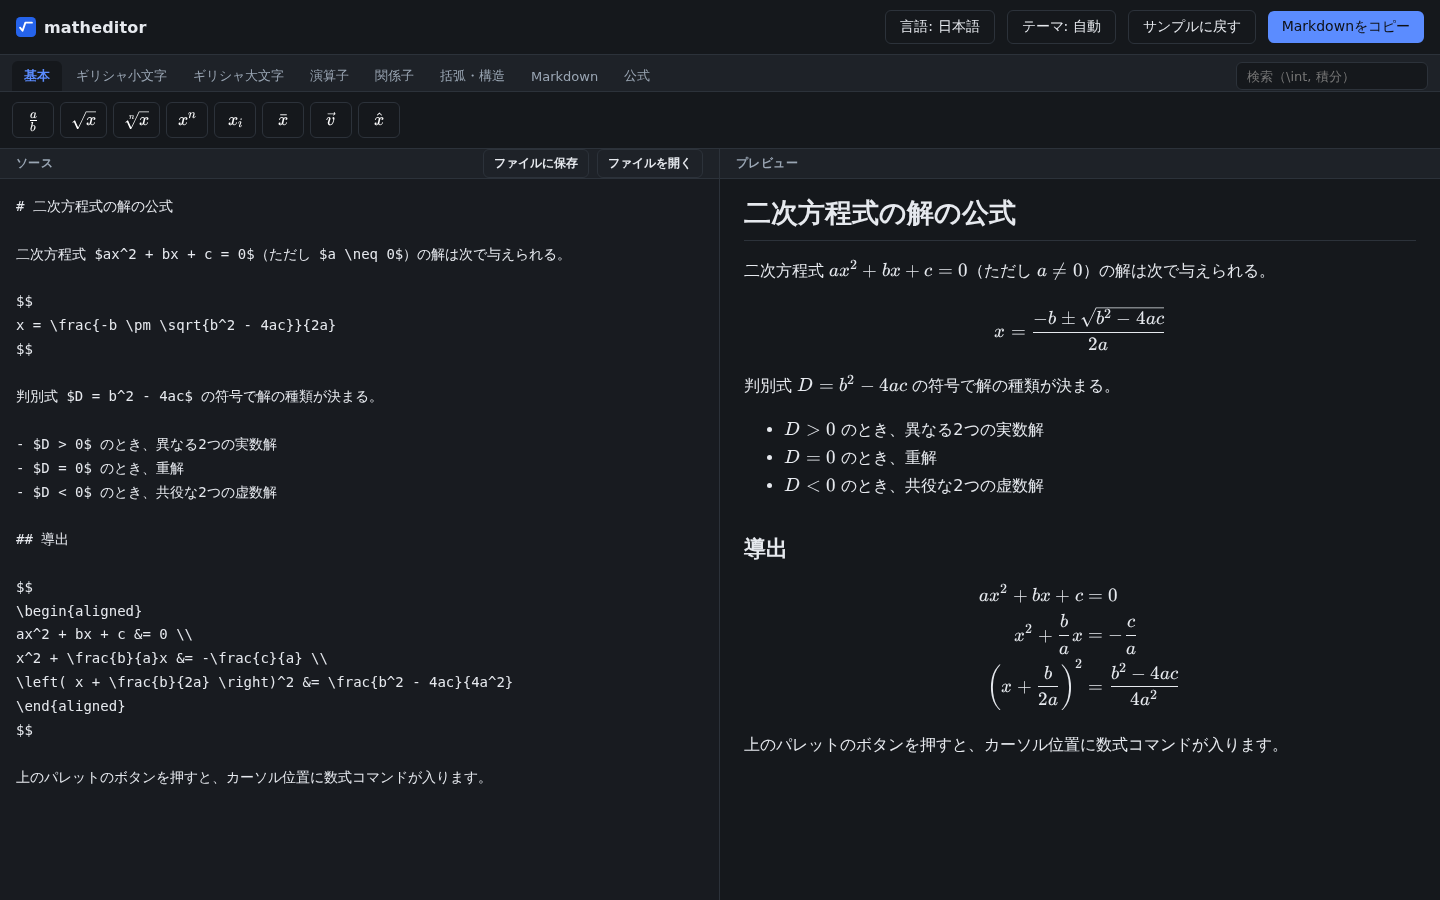
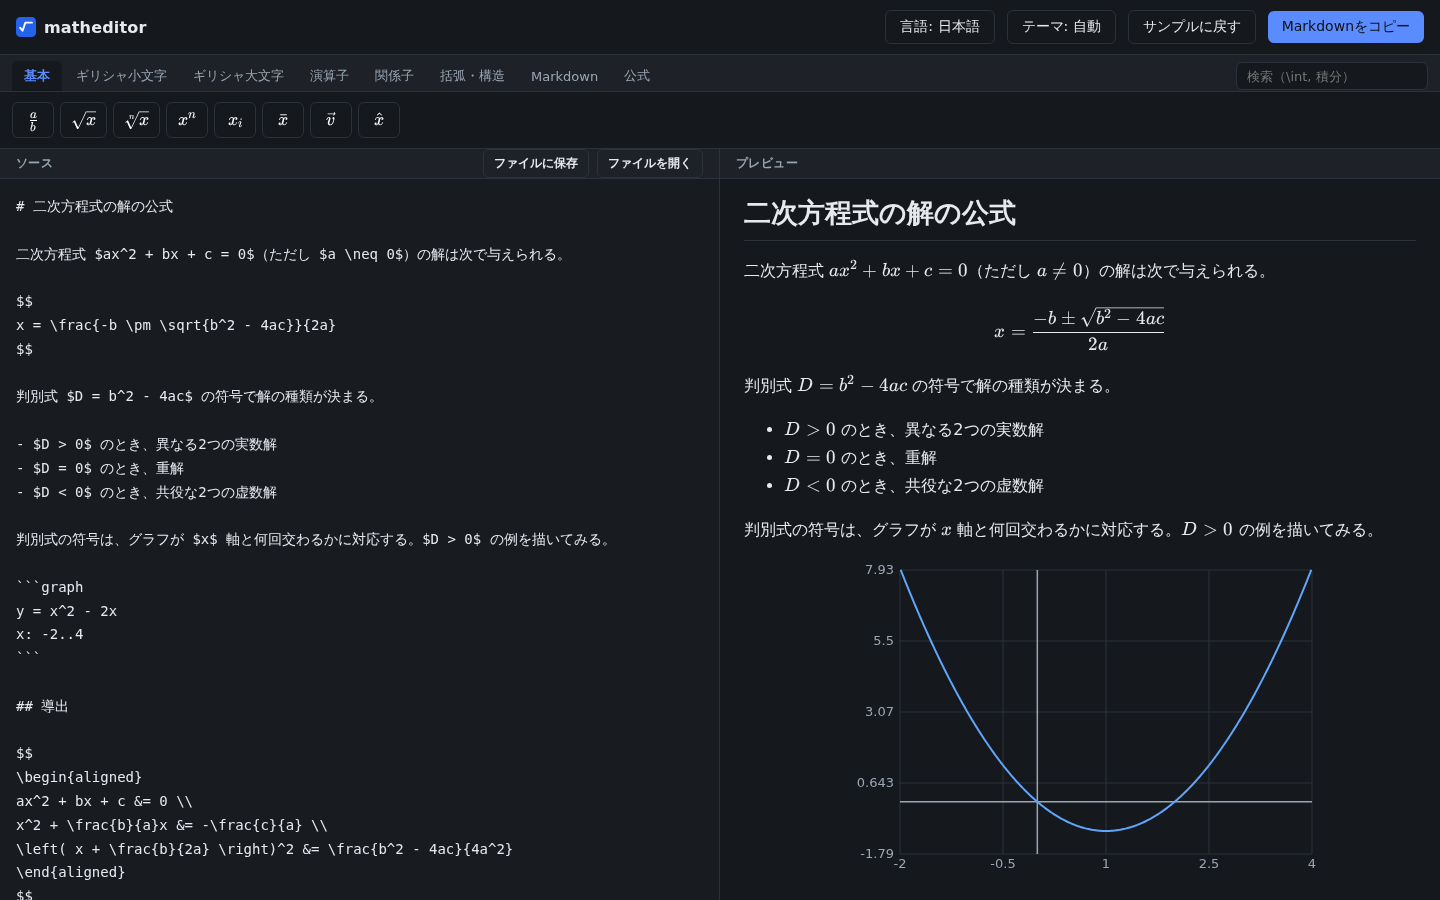
#0040 サンプル文書にグラフを入れる
判別式の箇条書きの直後に1段落とグラフのブロックを足した。式は y = x^2 - 2x
（解が0と2で、D > 0 の例として箇条書きの1つ目とつながる）。日英とも同じ位置。

グラフは他所で見かけない記法なので、サンプルに出ていないと気づかれない。
パレットの雛形ボタンはラベルが「グラフ」の4文字で、押すまで何が起きるか
分からなかった。

実機検証に5件足した（初回訪問・サンプルに戻したあと・英語のサンプル）。
これで initial 区分に初めてチェックが入った（0028の残りは見出しと数式の数）。
全区分246件が通る（140.3秒）。READMEのスクリーンショットは幅1440pxの2枚に
グラフが写る。幅360pxは初期表示の画面外なので変わらない。

diff --git a/src/sampleDocument.ts b/src/sampleDocument.ts
@@ -15,6 +15,13 @@ $$
 - $D = 0$ のとき、重解
 - $D < 0$ のとき、共役な2つの虚数解
 
+判別式の符号は、グラフが $x$ 軸と何回交わるかに対応する。$D > 0$ の例を描いてみる。
+
+\`\`\`graph
+y = x^2 - 2x
+x: -2..4
+\`\`\`
+
 ## 導出
 
 $$
@@ -42,6 +49,13 @@ The sign of the discriminant $D = b^2 - 4ac$ tells you what kind of roots you ge
 - $D > 0$: two distinct real roots
 - $D = 0$: one repeated root
 - $D < 0$: two complex conjugate roots
+
+The sign of $D$ tells you how often the graph meets the $x$-axis. Here is a case with $D > 0$.
+
+\`\`\`graph
+y = x^2 - 2x
+x: -2..4
+\`\`\`
 
 ## Derivation
 

diff --git a/docs/specs/0040-sample-graph.md b/docs/specs/0040-sample-graph.md
@@ -1,0 +1,76 @@
+# 0040: サンプル文書にグラフを入れる
+
+- 対応issue: [0040](../issues/0040-sample-graph.md)
+- 状態: implemented
+- 作成日: 2026-09-20
+
+## 目的
+
+初回訪問の画面にグラフが1つ出ているようにして、[0037](0037-graph.md) で入れた
+グラフの記法に**触れる前に気づける**ようにする。
+
+## 仕様
+
+`src/sampleDocument.ts` の日本語版・英語版のどちらにも、判別式の箇条書きの直後に
+1段落＋グラフのブロックを1つ足す。見出しは足さない。
+
+日本語版:
+
+```
+判別式の符号は、グラフが $x$ 軸と何回交わるかに対応する。$D > 0$ の例を描いてみる。
+
+```graph
+y = x^2 - 2x
+x: -2..4
+```
+```
+
+英語版:
+
+```
+The sign of $D$ tells you how often the graph meets the $x$-axis. Here is a case with $D > 0$.
+
+```graph
+y = x^2 - 2x
+x: -2..4
+```
+```
+
+- 式は $y = x^2 - 2x$。解が $0$ と $2$ で、$D = 4 > 0$ の例として箇条書きの1つ目と
+  つながる。x範囲 `-2..4` は2つの交点が両方とも余裕をもって入る幅。
+- グラフのブロックは日英で同じ（式に言語は関係しない）。
+- 足すのはここだけ。既存の本文・数式・導出は変えない。
+
+### 対象ファイル
+
+| ファイル | すること |
+|---|---|
+| `src/sampleDocument.ts` | 日英に1段落＋グラフのブロックを足す |
+| `docs/screenshots/*.png` | `node scripts/make-screenshots.mjs` で撮り直す |
+| `scripts/verify-ui.mjs` | 初期表示の区分でグラフが出ていることを確かめる |
+
+## 未確認の前提
+
+- サンプル文書が長くなることで、初期表示のスクリーンショット（幅360px）で
+  グラフが画面の外に出る可能性がある。撮って確かめる。
+  → **実際に画面外だった**（幅360pxの初期表示は導出より上で切れる）。
+  グラフより上の本文は変えていないので、写る範囲は今までと同じ。
+
+## 受け入れ基準
+
+- [x] 初回訪問（localStorageが空）で、プレビューにグラフが1つ描かれる
+- [x] `サンプルに戻す` でもグラフが描かれた状態に戻る
+- [x] 英語表示の初回訪問でもグラフが1つ描かれる
+- [x] サンプル文書の先頭行が `# 二次方程式の解の公式` のままである
+      （実機検証の複数の区分がこれに依存している）
+- [x] 書き出し→読み込みの往復（`file-save` 区分）が通る
+- [x] 全区分（`node scripts/verify-ui.mjs`）が通る
+- [x] `npm test` `npm run build` `npm run lint` が通る
+- [x] READMEのスクリーンショットを撮り直した。**グラフが写るのは幅1440pxの2枚**
+      （`wide-light.png` / `wide-dark.png`）。`phone.png`（幅360px）は初期表示の
+      画面外にグラフが来るため変わらない（スクロールすれば見える）
+
+## スコープ外
+
+- サンプル文書そのものの書き直し
+- グラフを2つ以上入れること

diff --git a/docs/issues/0040-sample-graph.md b/docs/issues/0040-sample-graph.md
@@ -1,0 +1,35 @@
+# 0040: サンプル文書にグラフが入っていない
+
+- 状態: closed
+- 起票日: 2026-09-20
+
+## 背景
+
+[0037](0037-graph.md) でグラフを描けるようにしたが、初回訪問で出るサンプル文書
+（「二次方程式の解の公式」）は数式・箇条書き・複数行の式だけで、グラフが入っていない。
+
+サンプル文書の狙いは「何ができるかが一目で分かること」（`src/sampleDocument.ts`
+のコメント）。グラフはこのアプリの記法であって他所で見かけないので、
+**サンプルに出ていなければ、あることに気づかれない**。パレットの `Markdown` タブに
+雛形ボタンはあるが、ラベルは `グラフ` の4文字で、押すまで何が起きるか分からない。
+
+## やりたいこと
+
+- 初回訪問の画面にグラフが1つ描かれていて、ソース側にその書き方が見えている。
+- グラフが文書の内容とつながっている（飾りで置かない）。
+- 日本語と英語の両方のサンプルに同じ狙いで入る。
+- READMEのスクリーンショットにもグラフが写る。
+
+## やらないこと
+
+- サンプル文書の書き直し。いまの内容は保ち、グラフを足すだけにする。
+- グラフを2つ以上入れること。1つで「あること」は伝わる。
+
+## メモ
+
+- 二次方程式の文書なので、判別式の符号と「グラフが $x$ 軸と何回交わるか」を
+  結びつけるのが素直。$D > 0$ の例として $y = x^2 - 2x$（解は0と2）を置く。
+- サンプル文書は長くすると初回の印象が重くなる。足すのは見出しなしの1段落と
+  ブロック1つまで。
+- 実機検証がサンプル文書の**先頭行**に依存している（`# 二次方程式の解の公式`)。
+  先頭は変えないので影響しないはずだが、全区分を流して確かめること。

diff --git a/docs/issues/README.md b/docs/issues/README.md
@@ -47,6 +47,7 @@
 | [0037](0037-graph.md) | 関数のグラフを挿入する | closed | [仕様](../specs/0037-graph.md) |
 | [0038](0038-graph-series.md) | グラフにデータ系列を描く | open | — |
 | [0039](0039-graph-nice-ticks.md) | グラフの目盛りの値がきりのよい数にならない | open | — |
+| [0040](0040-sample-graph.md) | サンプル文書にグラフが入っていない | closed | [仕様](../specs/0040-sample-graph.md) |
 
 ## 着手順の目安
 
@@ -134,6 +135,11 @@
   幅360pxで測り直すこと。
 - **持ち出した先ではグラフにならない**（コードブロックとして式が残る）。
   この穴は0003（数式の画像書き出し）と合わせて埋める。
+- **0040でサンプル文書にグラフを1つ入れた**（判別式の箇条書きの直後、$y = x^2 - 2x$）。
+  初回訪問の画面と、READMEの幅1440pxのスクリーンショット2枚に写る。
+  これで `initial` 区分に初めてチェックが2件入った（0028の残りは見出し・数式の数）。
+  **サンプル文書を変えるissueは、実機検証の複数の区分が先頭行
+  `# 二次方程式の解の公式` に依存していることに注意する。**
 - データ系列は0038、目盛りの値がきりの悪い数になる件は0039へ切り出した。
   0039は0037を実際に使って見つけたもので、`renderGraph.ts` の目盛りの計算を
   差し替えるだけで済む見込み。

diff --git a/docs/token-usage.md b/docs/token-usage.md
@@ -56,6 +56,11 @@ PY
 | 0035 | READMEをユーザー視点に書き直す | 約1673万 | 76,270 | 99,761 | 16,551,439 | 144 |
 | 0021 | パレット挿入のUndo | 約962万 | 112,364 | 240,318 | 9,264,146 | 204 |
 | 0037 | 関数のグラフを挿入する | 約2907万 | 249,073 | 924,071 | 27,898,884 | 390 |
+| 0040 | サンプル文書にグラフを入れる | 約939万 | 26,049 | 42,370 | 9,323,380 | 76 |
+
+0040は0037と同じセッションの続きなので、0037をクローズした時点からの差
+（会話が長くなったぶんキャッシュ読みが積み上がっており、**変更の量に対しては高い**。
+サンプル文書に7行足しただけで約939万トークンかかっている）。
 
 0037はこれまでで最も大きい（これまでの最大0035の約1.7倍）。機能の検討・issueの
 起票・仕様の実測・新規ファイル3つの実装・検証までを1セッションで通したため。

diff --git a/docs/issues/0028-initial-section-checks.md b/docs/issues/0028-initial-section-checks.md
@@ -22,6 +22,10 @@ await page.screenshot(…)
 [テスト仕様](../test-spec.md)は初期表示を区分として数えており、
 チェックがあるように読める。実態と合っていない。
 
+**[0040](0040-sample-graph.md) で2件だけ増えた**（サンプル文書のグラフが描かれること、
+グラフのエラーが出ていないこと）。見出し・ブロック数式の数・数式の総数は、
+いまも `console.log` で出すだけで判定していない。
+
 ## やりたいこと
 
 - 初期表示が壊れたときに、`initial` の区分が落ちる。

diff --git a/docs/functional-spec.md b/docs/functional-spec.md
@@ -272,6 +272,7 @@ x: -3..5
 次に開いたときは、保存した内容と「いつ保存したか」が復元される。
 スクロール位置とカーソル位置は復元されない（[0010](issues/0010-scroll-sync.md)）。
 保存がない・壊れている場合はサンプル文書（二次方程式の解の公式）が出る。
+サンプル文書には $y = x^2 - 2x$ のグラフが1つ入っている（[0040](specs/0040-sample-graph.md)）。
 
 ## 6. ツールバーの操作
 
